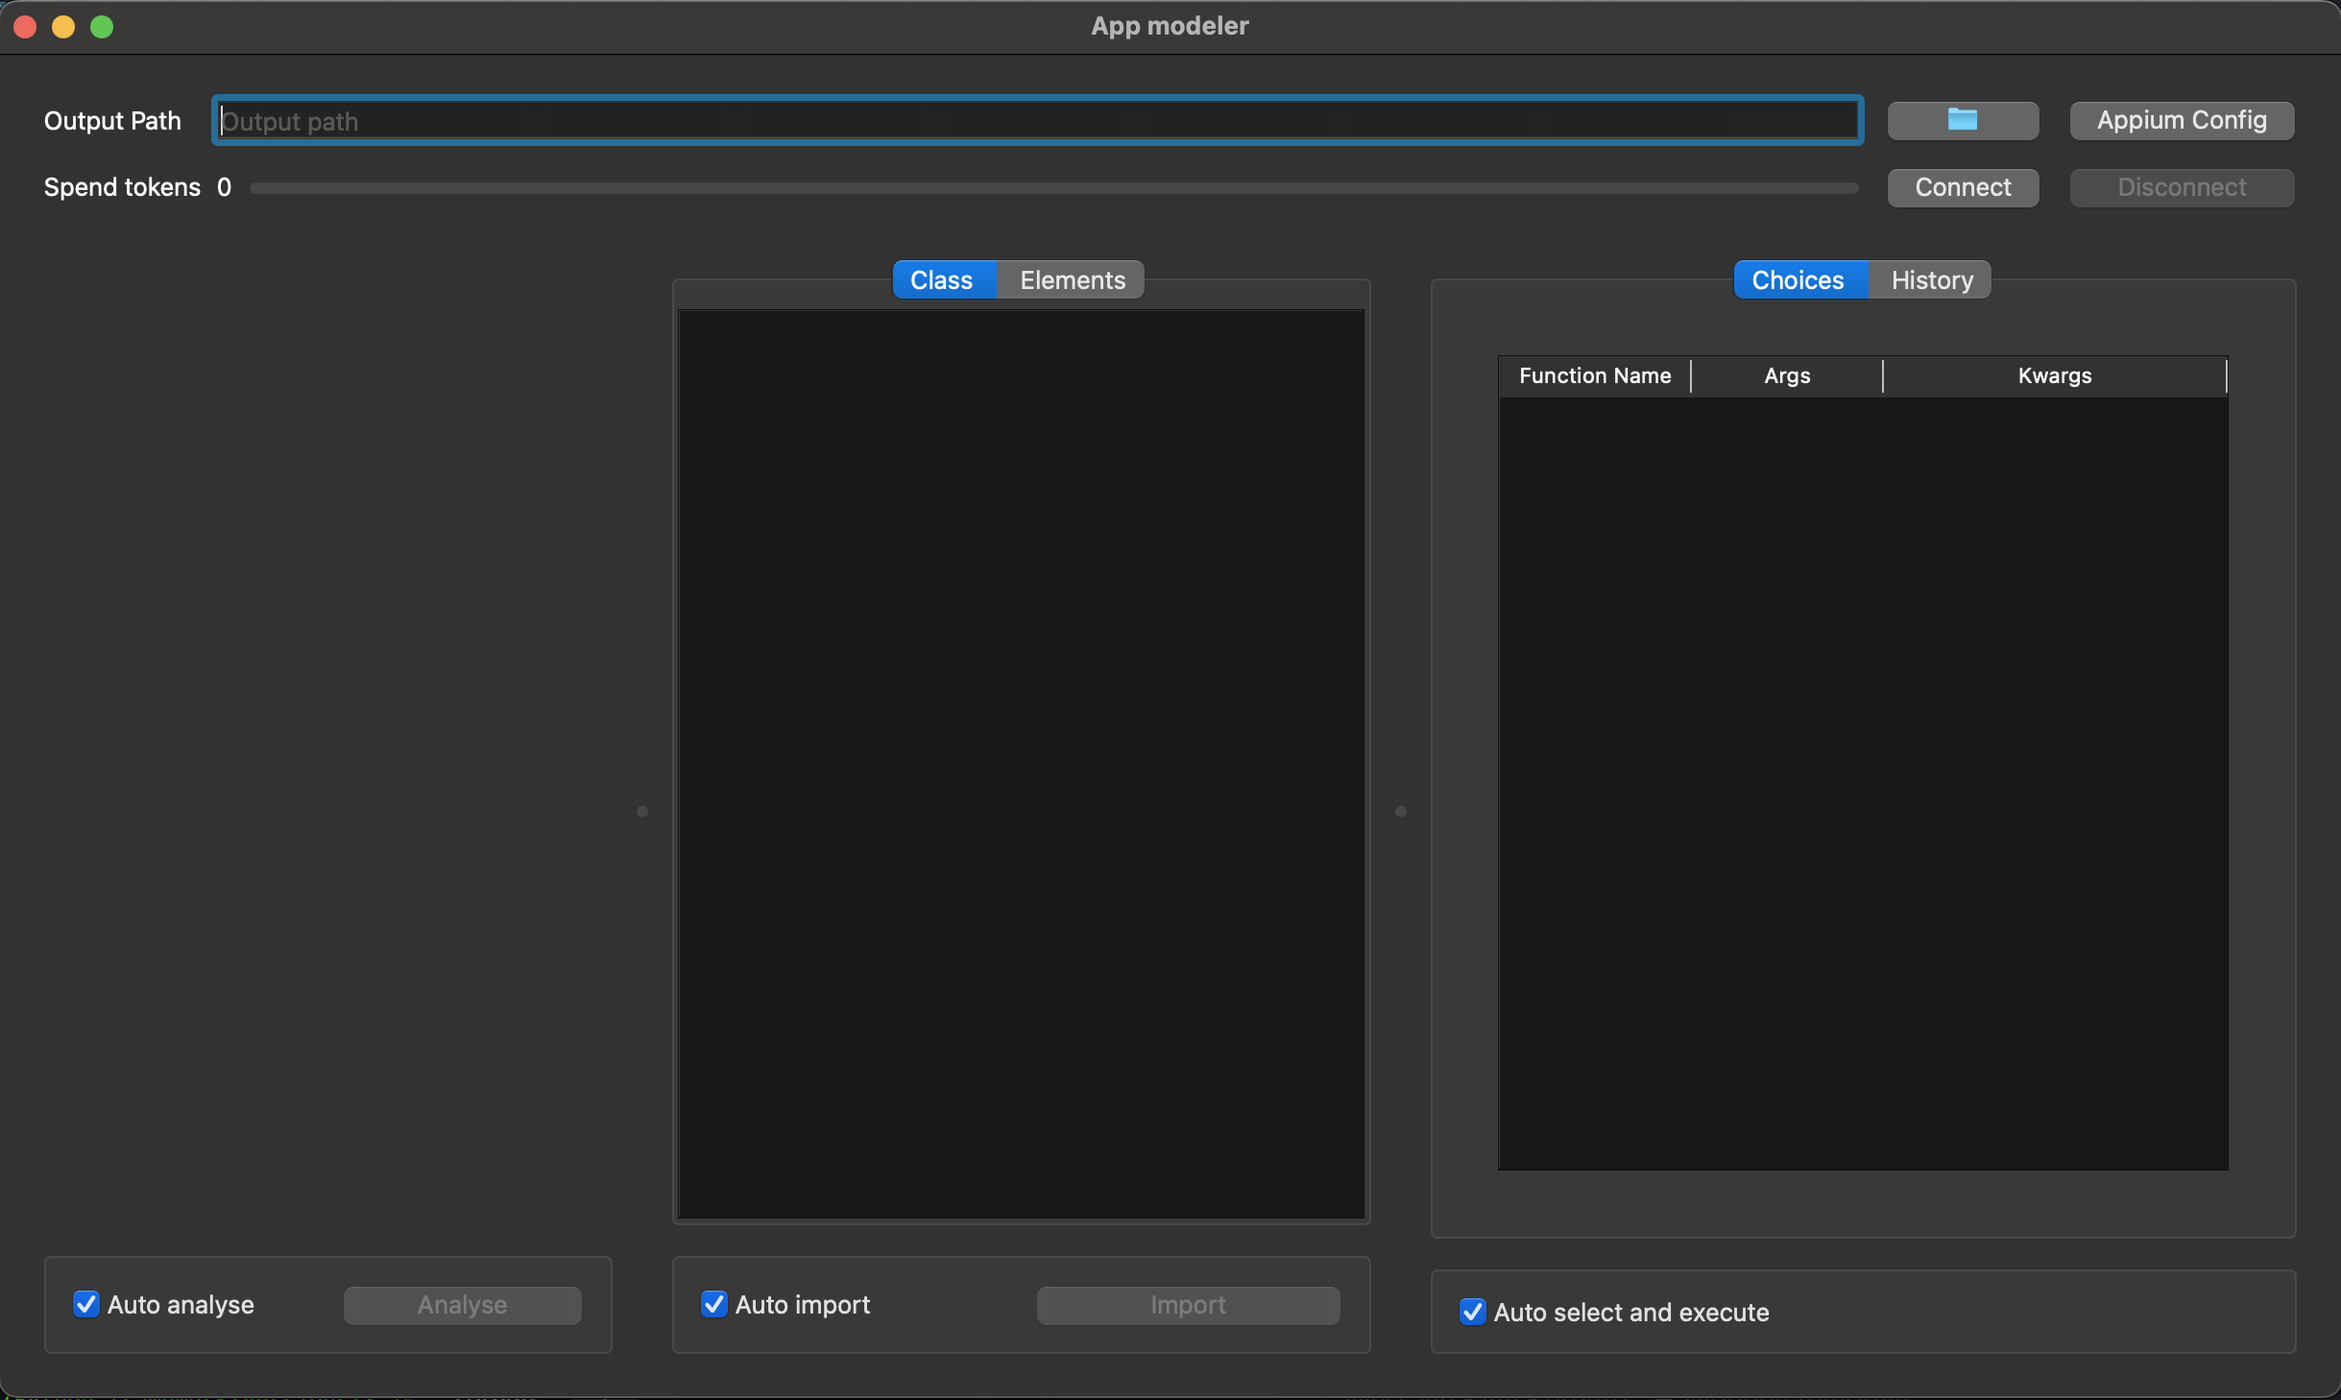
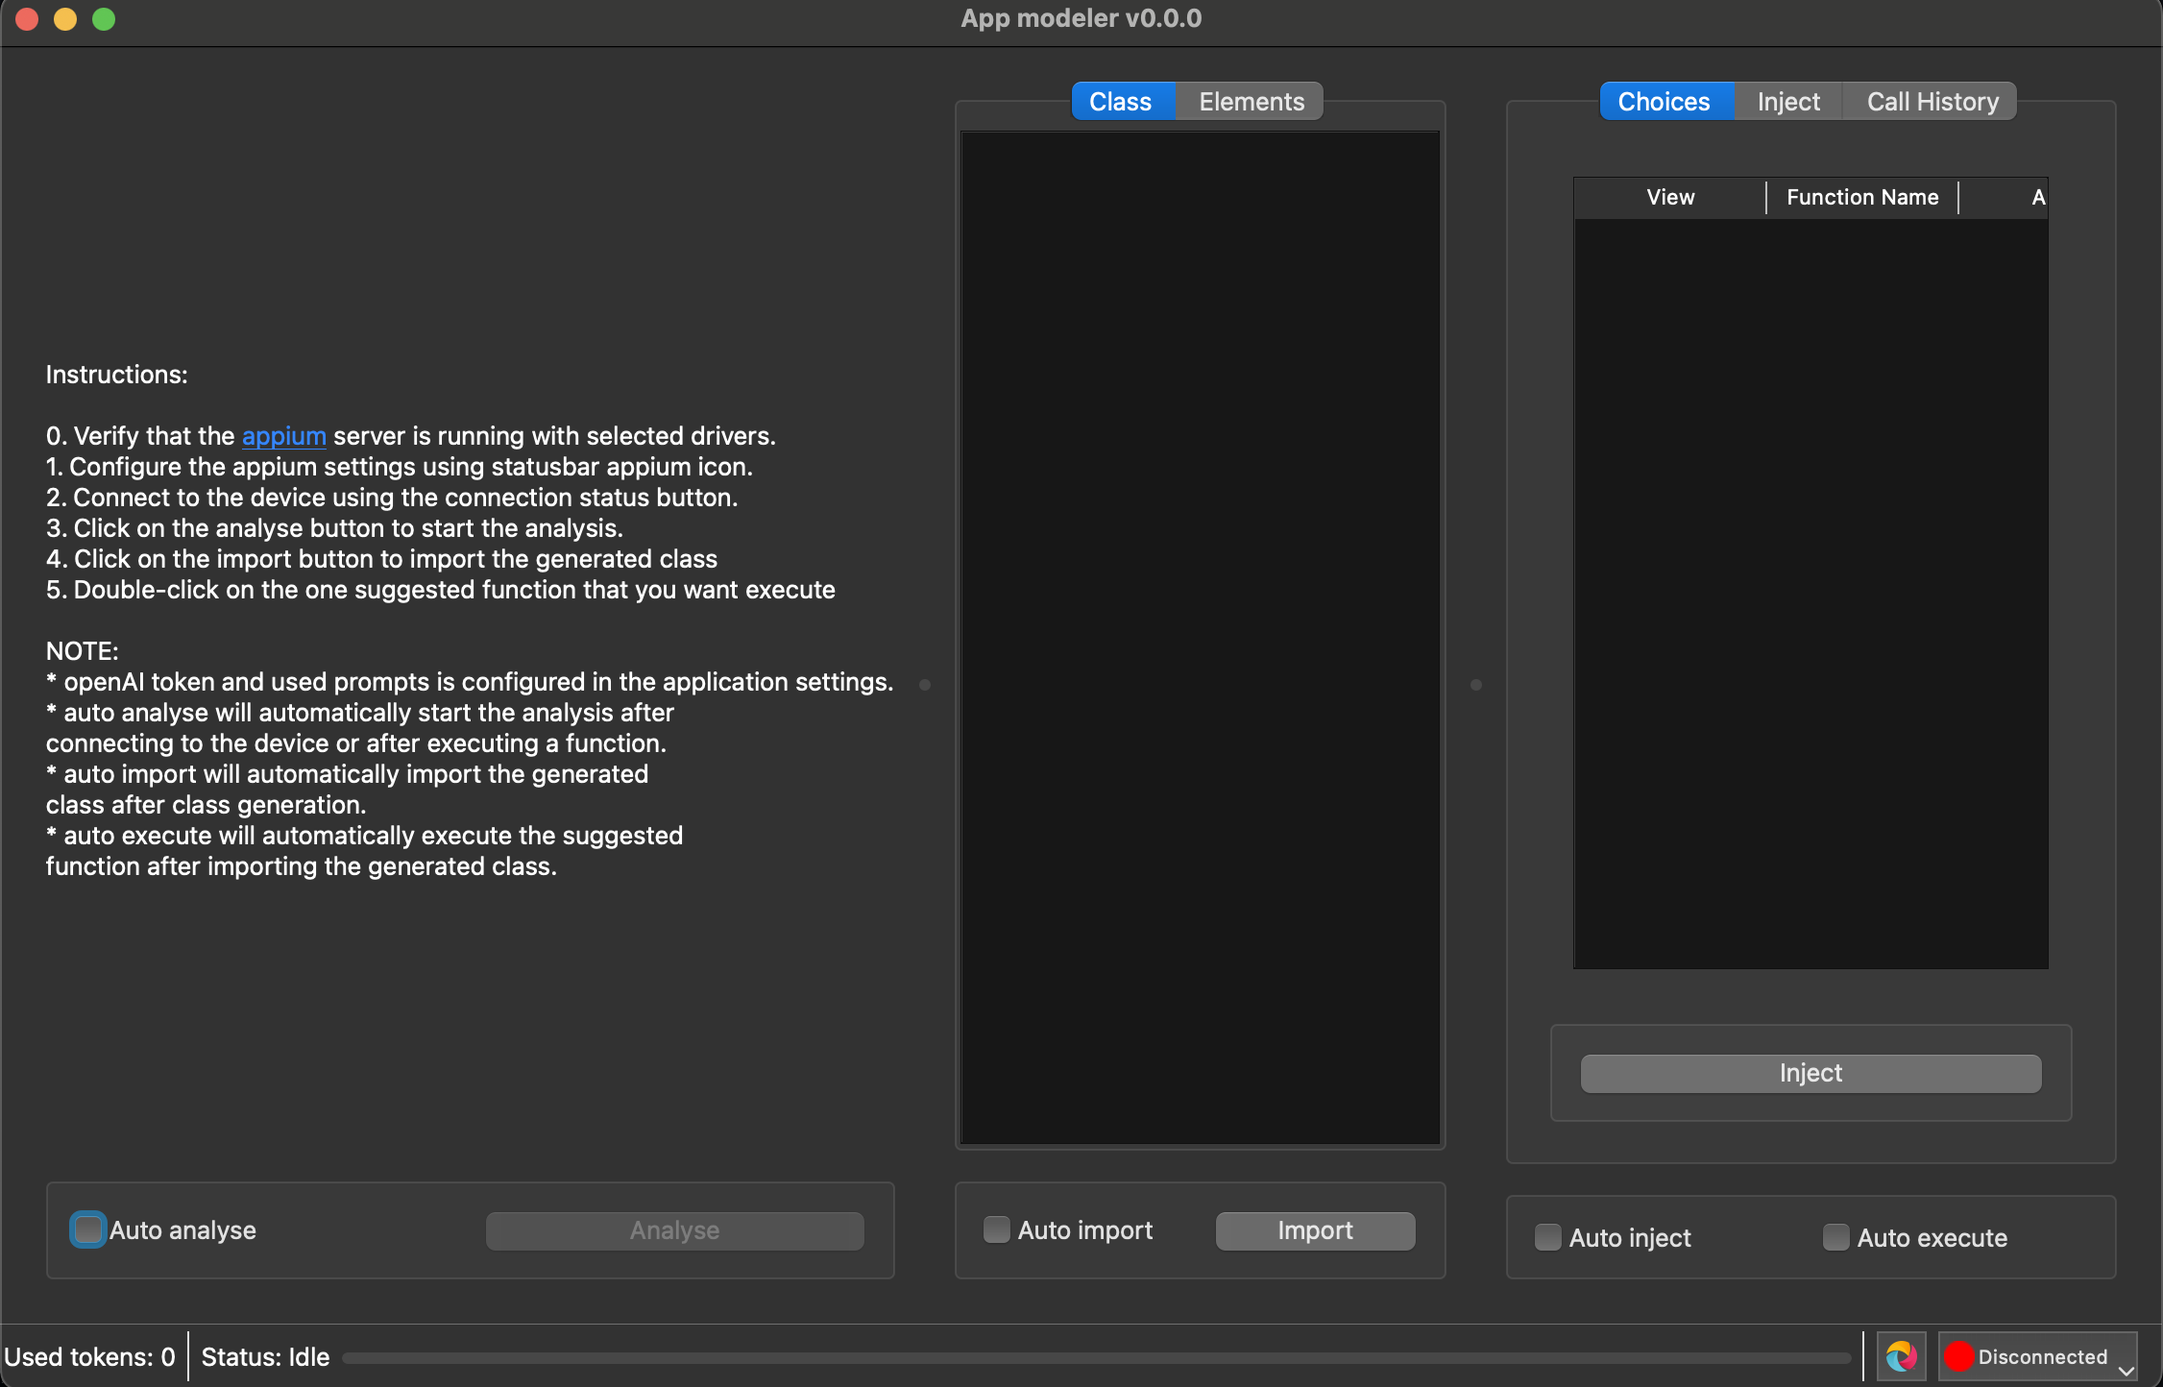
refactor layout (#8)
* refactor layout
* improve prompt and disable disconnect button by default
* finetuning statusbar. Top widget is dropper, no needed anymore
* add simple instructions to left side before connection is done

diff --git a/app_modeler/widgets/MainStatusBar.py b/app_modeler/widgets/MainStatusBar.py
@@ -1,0 +1,136 @@
+from PySide6.QtWidgets import QStatusBar, QMenu, QLabel, QToolButton, QDialog, QFrame
+from PySide6.QtGui import QIcon, QAction, Qt, QPixmap, QPainter, QColor
+from selenium.webdriver.common.options import BaseOptions
+
+from app_modeler.dialogs.AppiumConfigDialog import AppiumConfigDialog
+from app_modeler.models.AppSettings import AppSettings
+from app_modeler.models.ModelerState import ModelerState
+from app_modeler.models.StartOptions import StartOptions
+from app_modeler.utils.utils import get_icon
+from app_modeler.widgets.InfiniteProgressBar import InfiniteProgressBar
+
+
+class MainStatusBar(QStatusBar):
+    def __init__(self, state: ModelerState):
+        super().__init__()
+        self.appium_options: BaseOptions = AppiumConfigDialog(state.settings).options
+        self.state = state
+        self._setup_ui()
+        self._connect_signals()
+
+    def _setup_ui(self):
+        # Spend Tokens with Value
+        self.token_label = QLabel("Used tokens: 0")
+        self.token_label.setToolTip("Used OpenAI tokens that are deducted from your account.")
+        self.addWidget(self.token_label)
+
+        # add separator
+        def create_separator():
+            separator = QFrame()
+            separator.setFrameShape(QFrame.Shape.VLine)
+            return separator
+
+
+        self.addWidget(create_separator())
+
+        self.status_label = QLabel("Status: Idle")
+        self.status_label.setMaximumWidth(200)
+        self.addWidget(self.status_label)
+
+        # Processing with Progress Bar (stretches to max)
+        self.progress_bar = InfiniteProgressBar(self.state.signals.processing, self)
+        self.addWidget(self.progress_bar, 1)  # Stretch factor = 1
+
+        self.addWidget(create_separator())
+        # Appium Config Button (no submenu)
+        self.appium_button = QToolButton(self)
+        self.appium_button.setIcon(get_icon("appium.png"))
+        self.appium_button.setToolTip("Appium Configuration")
+        self.addWidget(self.appium_button)
+
+        # Connection Status with Icon and Menu
+        self.connection_button = QToolButton(self)
+        self.connection_button.setToolButtonStyle(Qt.ToolButtonStyle.ToolButtonTextBesideIcon)
+        self.connection_menu = QMenu("Connection Status", self)
+        self.connect_action = QAction("Connect", self)
+        self.connection_menu.addAction(self.connect_action)
+        self.disconnect_action = QAction("Disconnect", self)
+        self.disconnect_action.setEnabled(False)
+        self.connection_menu.addAction(self.disconnect_action)
+        self.connection_button.setMenu(self.connection_menu)
+        self.connection_button.setPopupMode(QToolButton.ToolButtonPopupMode.InstantPopup)
+        self.addWidget(self.connection_button)
+
+        self.update_connection_status(False)
+
+    def _connect_signals(self):
+        self.state.signals.connected.connect(self.on_connected)
+        self.state.signals.disconnected.connect(self.on_disconnected)
+        self.state.signals.tokens_spend.connect(self.set_token_value)
+        self.state.signals.status_message.connect(self.on_status_message)
+
+        self.connect_action.triggered.connect(self.on_connect_clicked)
+        self.disconnect_action.triggered.connect(self.state.signals.disconnect.emit)
+        self.appium_button.clicked.connect(self.on_appium_clicked)
+
+    def on_connect_clicked(self):
+        options = StartOptions(app_settings=self.state.app_settings,
+                               appium_options=self.appium_options)
+        self.state.signals.connect.emit(options)
+
+    def on_appium_clicked(self):
+        dialog = AppiumConfigDialog(self.state.settings)
+        retval = dialog.exec()
+        if retval == QDialog.DialogCode.Accepted:
+            self.appium_options = dialog.options
+
+    def on_connected(self):
+        self.update_connection_status(True)
+        self.connect_action.setEnabled(False)
+        self.disconnect_action.setEnabled(True)
+
+    def on_disconnected(self):
+        self.update_connection_status(False)
+        self.connect_action.setEnabled(True)
+        self.disconnect_action.setEnabled(False)
+
+    def on_status_message(self, message: str):
+        self.status_label.setText(message)
+
+
+    @staticmethod
+    def create_status_icon(color: str) -> QIcon:
+        """Create a circular icon with the given color."""
+        pixmap = QPixmap(16, 16)
+        pixmap.fill(Qt.transparent)  # Transparent background
+
+        painter = QPainter(pixmap)
+        painter.setRenderHint(QPainter.Antialiasing)
+        painter.setBrush(QColor(color))
+        painter.setPen(Qt.NoPen)
+        painter.drawEllipse(0, 0, 16, 16)
+        painter.end()
+
+        return QIcon(pixmap)
+
+    def update_connection_status(self, state: bool):
+        """Update the connection button's icon and text."""
+        if state:
+            self.connection_button.setIcon(self.create_status_icon("green"))
+            self.connection_button.setText("Connected")
+        else:
+            self.connection_button.setIcon(self.create_status_icon("red"))
+            self.connection_button.setText("Disconnected")
+
+    def set_token_value(self, value):
+        """Set the value of the tokens display."""
+        self.token_label.setText(f"Tokens: {value}")
+
+
+if __name__ == '__main__':
+    from PySide6.QtWidgets import QApplication, QMainWindow
+    app = QApplication([])
+    main = QMainWindow()
+    main.setStatusBar(MainStatusBar(ModelerState(AppSettings())))
+    main.show()
+    app.exec()

diff --git a/app_modeler/models/ModelerState.py b/app_modeler/models/ModelerState.py
@@ -30,8 +30,12 @@ class Signals(QObject):
     execute = Signal(FunctionCall)
     executed = Signal(FunctionCall)
 
+
+    status_message = Signal(str)
+
     processing = Signal(bool)
     screenshot = Signal(bytearray)
+    tokens_spend = Signal(int)
     class_propose = Signal(str)
     elements_propose = Signal(str)
     import_module = Signal()
@@ -90,6 +94,7 @@ class ModelerState(QObject):
         self.worker_thread.start()
 
     def do_connect(self, start_options: StartOptions) -> bytes:
+        self.signals.status_message.emit('Connecting to appium server')
         self.driver = create_driver(start_options)
         token = start_options.app_settings.token
         base_url = start_options.app_settings.base_url
@@ -132,10 +137,13 @@ class ModelerState(QObject):
         3. Generate class code
         """
         logger.debug('capture screenshot')
+
+        self.signals.status_message.emit('Capturing screenshot')
         screenshot = self.driver.get_screenshot_as_png()
         self.signals.screenshot.emit(bytearray(screenshot))
 
         logger.debug('Discover elements')
+        self.signals.status_message.emit('Discovering elements')
         discover = ElementsDiscover(self.driver)
         elements_data = discover.scan_view()
         elements_str = json.dumps([elem.asdict_custom() for elem in elements_data], indent=4)
@@ -148,19 +156,21 @@ class ModelerState(QObject):
         if class_data:
             logger.debug('Found previous class, reuse it')
             self._current_view = class_data
-            self.signals.class_propose.emit(class_data.class_str)
-            return
-
-        logger.debug('Generate class code')
-
-        class_name = f'View{self._view_index}'
-        self._view_index += 1
-        class_generator = AppiumClassGenerator(self.ai_assistant, prompt_template=self.app_settings.class_generator_prompt)
-        class_str = class_generator.generate(class_name=class_name, elements=elements_data)
+            class_name = class_data.name
+            class_str = class_data.class_str
+        else:
+            logger.debug('Generate class code')
+            self.signals.status_message.emit('Generating class code')
+            class_name = f'View{self._view_index}'
+            self._view_index += 1
+            class_generator = AppiumClassGenerator(self.ai_assistant, prompt_template=self.app_settings.class_generator_prompt)
+            class_str = class_generator.generate(class_name=class_name, elements=elements_data)
+            self.signals.tokens_spend.emit(self.ai_assistant.used_tokens)
 
         self.signals.class_propose.emit(class_str)
 
         logger.debug('Ask next functions')
+        self.signals.status_message.emit('Asking next functions')
         tester = TesterAi(self.ai_assistant, prompt_template=self.app_settings.tester_prompt)
 
         class_docstring = generate_class_json_from_code(class_str, class_name)
@@ -168,14 +178,21 @@ class ModelerState(QObject):
         logger.debug(f"Previous steps: {previous_steps}")
         next_functions: [FunctionCall] = tester.ask_next_step(class_docstring, previous_steps=previous_steps)
         logger.debug(f"Next functions: {next_functions}")
+        self.signals.tokens_spend.emit(self.ai_assistant.used_tokens)
 
-        class_data = ClassData(name=class_name,
-                               screenshot=screenshot,
-                               elements=elements_data,
-                               class_str=class_str,
-                               function_candidates=next_functions)
-        self.session.classes.append(class_data)
-        self._current_view = class_data
+        if not class_data:
+            # create new class
+            class_data = ClassData(name=class_name,
+                                   screenshot=screenshot,
+                                   elements=elements_data,
+                                   class_str=class_str,
+                                   function_candidates=next_functions)
+            self.session.classes.append(class_data)
+            self._current_view = class_data
+        else:
+            # update new next function candidates
+            class_data.function_candidates = next_functions
+
         logger.debug('Next functions available')
 
     @wait_for_thread

diff --git a/app_modeler/widgets/MainLeftWidget.py b/app_modeler/widgets/MainLeftWidget.py
@@ -1,6 +1,8 @@
+import textwrap
 from time import sleep
 
-from PySide6.QtWidgets import QVBoxLayout, QGroupBox, QHBoxLayout, QPushButton, QCheckBox
+from PySide6.QtCore import Qt
+from PySide6.QtWidgets import QVBoxLayout, QGroupBox, QHBoxLayout, QPushButton, QCheckBox, QLabel
 
 from app_modeler.models.ModelerState import ModelerState
 from app_modeler.widgets.ImageWidget import ImageWidget
@@ -24,6 +26,30 @@ class BottomLeftWidget(SettingsWidget):
     def _setup_ui(self):
         layout = QVBoxLayout()
         self.image = ImageWidget(self)
+        self.image.setVisible(False)
+        self.help_label = QLabel(textwrap.dedent("""
+        Instructions:
+        
+        0. Verify that the <a href="https://appium.io">appium</a> server is running with selected drivers.
+        1. Configure the appium settings using statusbar appium icon.
+        2. Connect to the device using the connection status button.
+        3. Click on the analyse button to start the analysis.
+        4. Click on the import button to import the generated class
+        5. Double-click on the one suggested function that you want execute
+        
+        NOTE: 
+          * openAI token and used prompts is configured in the application settings.
+          * auto analyse will automatically start the analysis after 
+            connecting to the device or after executing a function.
+          * auto import will automatically import the generated  
+            class after class generation.
+          * auto execute will automatically execute the suggested 
+            function after importing the generated class.
+        
+        """).strip().replace("\n", "<br>"))
+        self.help_label.setOpenExternalLinks(True)
+        self.help_label.setTextFormat(Qt.RichText)
+        layout.addWidget(self.help_label, stretch=1)
         layout.addWidget(self.image)
         self.setLayout(layout)
 
@@ -44,6 +70,8 @@ class BottomLeftWidget(SettingsWidget):
         layout.addWidget(operate_box)
 
     def on_connected(self):
+        self.help_label.setVisible(False)
+        self.image.setVisible(True)
         if self.auto_analyse_checkbox.isChecked():
             # wait a bit to ensure the view is updated
             sleep(1)

diff --git a/app_modeler/MainWindow.py b/app_modeler/MainWindow.py
@@ -5,10 +5,10 @@ from app_modeler.dialogs.ExceptionDialog import ExceptionDialog
 from app_modeler.dialogs.SettingsDIalog import SettingsDialog, AppSettingsWidget
 from app_modeler.models.AppSettings import AppSettings
 from app_modeler.models.ModelerState import ModelerState
-from app_modeler.widgets.BottomMiddleWidget import BottomMiddleWidget
-from app_modeler.widgets.TopWidget import TopWidget
-from app_modeler.widgets.BottomLeftWidget import BottomLeftWidget
-from app_modeler.widgets.BottomRightWidget import BottomRightWidget
+from app_modeler.widgets.MainMiddleWidget import BottomMiddleWidget
+from app_modeler.widgets.MainStatusBar import MainStatusBar
+from app_modeler.widgets.MainLeftWidget import BottomLeftWidget
+from app_modeler.widgets.MainRightWidget import BottomRightWidget
 from app_modeler import __version__
 
 class MainWindow(QMainWindow):
@@ -36,10 +36,6 @@ class MainWindow(QMainWindow):
         central_widget = QWidget()
         main_layout = QVBoxLayout()
 
-        # Top Section
-        top_widget = TopWidget(self.state)
-        main_layout.addWidget(top_widget)
-
         # Bottom Section
 
         h_splitter = QSplitter(Qt.Horizontal)
@@ -61,6 +57,10 @@ class MainWindow(QMainWindow):
 
         central_widget.setLayout(main_layout)
         self.setCentralWidget(central_widget)
+
+        # add statusbar
+        self.statusbar = MainStatusBar(self.state)
+        self.setStatusBar(self.statusbar)
 
     def show_error(self, error: Exception):
         # Show error dialog

diff --git a/app_modeler/utils/utils.py b/app_modeler/utils/utils.py
@@ -7,6 +7,7 @@ import ast
 from typing import Type
 import sys
 
+from PySide6.QtGui import QIcon, QPixmap
 
 from app_modeler.appium_helpers.AppiumInterface import AppiumInterface
 
@@ -205,3 +206,9 @@ class MyView(AppiumInterface):
     except Exception:
         logger.exception("An error occurred while loading the module.")
         # Handle exception as needed
+
+def get_icon(name: str) -> QIcon:
+    non_binary_root_path = Path(__file__).parent.parent.parent
+    base_path = Path(getattr(sys, '_MEIPASS', non_binary_root_path))
+    icon_path = base_path / "resources" /  name
+    return QIcon(QPixmap(str(icon_path)))

diff --git a/app_modeler/models/AppSettings.py b/app_modeler/models/AppSettings.py
@@ -55,6 +55,7 @@ class AppSettings(QObject):
                 Give multiple options, sorted by most likely to least likely.
                 Prefer button_press or textbox_enter methods.
                 Give only the method call as a string, e.g. click_tab1.
+                Do not include parenthesis ("()").
                 Do not include anything else in response.
                 Previous steps was: {previous_steps}, do not repeat unless it's only option.
                 please review the following class content: {class_docstring}
